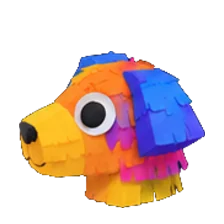
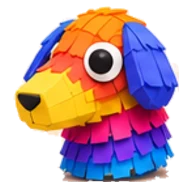
Sixteen piñata animals to pick from
The mascot picker in the new look now offers sixteen piñatas (horse, donkey, bull, dog,
bear, panda, chicken, pig, crocodile, goat, ram, parrot, flamingo, zebra, giraffe and
unicorn), four to a row. Each is cut from the new sheet facing you and three-quarters to
the left; facing right is the left one mirrored. Anyone who'd picked one of the first six
keeps the nearest of these, and shapes map across all sixteen.

The cutter now measures the cream in each cell, stops the background fill at the faint
edge every piñata has (so the panda's, zebra's and unicorn's whites stay), takes the
shadows out, and splits views that touch at their thinnest column.

Claude-Session: https://claude.ai/code/session_011zRNukvtAgYpnhJAdsmgH9

diff --git a/index.html b/index.html
@@ -1682,7 +1682,7 @@ html.v2 .pin .avb{transform-box:view-box;transform-origin:50% 92%;translate:calc
 html.v2 .pin .pf-f{opacity:clamp(0, calc(1 - (var(--ay) - .3) * 6), 1)}
 html.v2 .pin .pf-l{opacity:clamp(0, calc((-1 * var(--yaw) - .3) * 6), 1)}
 html.v2 .pin .pf-r{opacity:clamp(0, calc((var(--yaw) - .3) * 6), 1)}
-html.v2 #avShapes{grid-template-columns:repeat(3,1fr)}html.v2 :is(#avEyes,#avEyesL){display:none!important}
+html.v2 #avShapes{grid-template-columns:repeat(4,1fr)}html.v2 :is(#avEyes,#avEyesL){display:none!important}
 html.v2 .av svg{overflow:visible}
 @media (prefers-reduced-motion:reduce){html.v2 .couchrow .cz.zz .av,html.v2 .couchrow .cz.zz::after{animation:none}}
 @media (prefers-reduced-motion:reduce){html.v2 :is(.dealt,.couchrow .cz.wake,.slip .stars i,#yearBand .yb,#yearBand .yb i.new){animation:none!important}html.v2 :is(.pagetitle,[data-pagetitle])::before{animation:none!important}}
@@ -4254,15 +4254,20 @@ function avHash(s) { let h = 2166136261; for (const ch of String(s || "?")) { h 
    which is honest — better a ring that arrives late than one invented from what happens
    to be in memory. */
 const ringCache = {};
-/* THE PIÑATAS (the new look): six animals, each drawn from three angles (icons/pinatas,
-   cut from art/pinatas-sheet.png by tools/pinatas.cjs). Somebody's mascot is one of them,
-   tinted toward the colour they picked; a mascot from before (a shape) becomes the animal
-   its shape maps to, so nobody has to pick again. The classic look keeps the shapes. */
-const PINATAS = ["llama", "dog", "cat", "chicken", "cow", "bunny"];
-const PIN_NAMES = { llama:"Llama", dog:"Dog", cat:"Cat", chicken:"Chicken", cow:"Cow", bunny:"Bunny" };
-const SHAPE_PIN = { cube:"dog", box:"cow", ball:"cat", can:"chicken", cone:"llama", pill:"bunny", arch:"llama", ghost:"bunny",
-  step:"dog", drop:"chicken", tri:"llama", cloud:"cat", bun:"cow", blob:"dog", clover:"bunny" };
-const pinOf = a => PINATAS.includes(a?.animal) ? a.animal : SHAPE_PIN[a?.shape] || "dog";
+/* THE PIÑATAS (the new look): sixteen animals, each drawn facing you and three-quarters to
+   the left (icons/pinatas, cut from art/pinatas-16.png by tools/pinatas.cjs); facing right
+   is the left one mirrored. Somebody's mascot is one of them, tinted toward the colour they
+   picked. A mascot from before becomes an animal without anyone having to pick again: one
+   of the first six animals becomes the nearest of these, and a shape the animal it maps to.
+   The classic look keeps the shapes. */
+const PINATAS = ["horse", "donkey", "bull", "dog", "bear", "panda", "chicken", "pig", "crocodile", "goat", "ram", "parrot", "flamingo", "zebra", "giraffe", "unicorn"];
+const PIN_NAMES = { horse:"Horse", donkey:"Donkey", bull:"Bull", dog:"Dog", bear:"Bear", panda:"Panda", chicken:"Chicken", pig:"Pig",
+  crocodile:"Crocodile", goat:"Goat", ram:"Ram", parrot:"Parrot", flamingo:"Flamingo", zebra:"Zebra", giraffe:"Giraffe", unicorn:"Unicorn" };
+const OLD_PIN = { llama:"horse", cat:"bear", cow:"bull", bunny:"donkey" };
+const SHAPE_PIN = { cube:"dog", box:"bull", ball:"bear", can:"chicken", cone:"unicorn", pill:"pig", arch:"horse", ghost:"panda",
+  step:"goat", drop:"parrot", tri:"crocodile", cloud:"ram", bun:"donkey", blob:"flamingo", clover:"zebra" };
+const pinName = n => PINATAS.includes(n) ? n : OLD_PIN[n] || "";
+const pinOf = a => pinName(a?.animal) || SHAPE_PIN[a?.shape] || "dog";
 const pinSrc = (n, f) => `icons/pinatas/${n}-${f}.webp`;
 /* a tint pulls the animal toward the colour picked: its light and shade kept, its paper
    mostly that colour (a little of its own rainbow left showing), googly eyes still white.
@@ -4294,7 +4299,7 @@ const PIN_BADGE = {
 const pinBadgeSVG = k => PIN_BADGE[k] ? `<g class="pbadge" transform="translate(77 75)"><circle r="13" fill="#151320"/>${PIN_BADGE[k]}</g>` : "";
 function pinSVG(a) { pinDefs(); const n = pinOf(a), t = pinTint(a);
   return `<svg viewBox="0 0 100 100" data-shape="${n}" class="pin" aria-hidden="true"><ellipse class="avgr" cx="50" cy="94" rx="27" ry="4" fill="#000" opacity=".22"/><g class="avb"${t ? ` filter="${t}"` : ""}>${
-    ["f", "l", "r"].map(f => `<image class="pf pf-${f}" href="${pinSrc(n, f)}" x="0" y="0" width="100" height="100"/>`).join("")}</g>${a.founder ? COMET : (a.ring || "")}</svg>`; }
+    ["f", "l", "r"].map(f => `<image class="pf pf-${f}" href="${pinSrc(n, f === "r" ? "l" : f)}"${f === "r" ? ` transform="matrix(-1 0 0 1 100 0)"` : ""} x="0" y="0" width="100" height="100"/>`).join("")}</g>${a.founder ? COMET : (a.ring || "")}</svg>`; }
 /* the same animal, as a picture, for the share cards (an SVG that points at another image
    can't be drawn onto a canvas) */
 async function pinCanvas(a, size = 600) { const n = pinOf(a), im = await imgLoad(pinSrc(n, "f"), false); if (!im) return null;
@@ -4308,7 +4313,7 @@ function avFor(p) {
   const founder = !!p?.founder || founderIds.has(p?.id);
   const ring = ringCache[p?.id] || null;
   if (a && AV_SHAPES[a.shape] && AV_COLS[a.col] !== undefined)
-    return { shape:a.shape, col:a.col, eyes:AV_EYES[a.eyes] ? a.eyes : "pair", tilt:a.tilt ?? 0, pers:AV_PERS[a.pers] ? a.pers : "", animal:PINATAS.includes(a.animal) ? a.animal : "", founder, ring };
+    return { shape:a.shape, col:a.col, eyes:AV_EYES[a.eyes] ? a.eyes : "pair", tilt:a.tilt ?? 0, pers:AV_PERS[a.pers] ? a.pers : "", animal:pinName(a.animal), founder, ring };
   const h = avHash(p?.handle);
   return { shape:AV_DEFAULT[h % AV_DEFAULT.length], col:(h >> 3) % AV_COLS.length,
     eyes:AV_EYE_DEFAULT[(h >> 11) % AV_EYE_DEFAULT.length], tilt:((h >> 7) % 9) - 4, founder, ring, auto:true }; }
@@ -4594,7 +4599,7 @@ const saveP = () => localStorage.setItem("rooms.prefs", JSON.stringify(P));
    differs), so the classic look switches off clean, and can be deleted once nobody uses it */
 const V2 = /[?&]v2\b/.test(location.search) || !(/[?&]v1\b/.test(location.search) || P.classicLook);
 document.documentElement.classList.toggle("v2", V2);
-if (V2) PINATAS.forEach(n => ["f", "l", "r"].forEach(f => { const i = new Image(); i.src = pinSrc(n, f); }));
+if (V2) PINATAS.forEach(n => ["f", "l"].forEach(f => { const i = new Image(); i.src = pinSrc(n, f); }));
 /* the marks in 3D (see mark3d): each is shaded the first time it's on screen */
 const markObs = V2 && "IntersectionObserver" in window ? new IntersectionObserver(es => es.forEach(en => { if (!en.isIntersecting) return;
   mark3d(en.target); if (en.target.dataset.m3) markObs.unobserve(en.target); })) : null;

diff --git a/store/listing.md b/store/listing.md
@@ -53,7 +53,7 @@ No ads and no tracking. Your rooms are yours. Report and block are always one ta
 
 Rooms has a new look. Every page has its own colour, and a title opens on its poster, big, in that poster's colour. If you'd rather have the old one, Settings has a Classic look switch for now.
 
-Everyone's a piñata now: a llama, dog, cat, chicken, cow or bunny, in your colour. They look around, chat on the couch, and turn to see what you've just logged. Pick yours, and whether it's calm, curious or chatty, under your name.
+Everyone's a piñata now: pick from sixteen, from a horse or a panda to a flamingo or a unicorn, in your colour. They look around, chat on the couch, and turn to see what you've just logged. Pick yours, and whether it's calm, curious or chatty, under your name.
 
 Your year in colour: a stripe for everything you finish this year, across the top of Queue. Slide along it to see what each one was, or share it as a picture.
 
